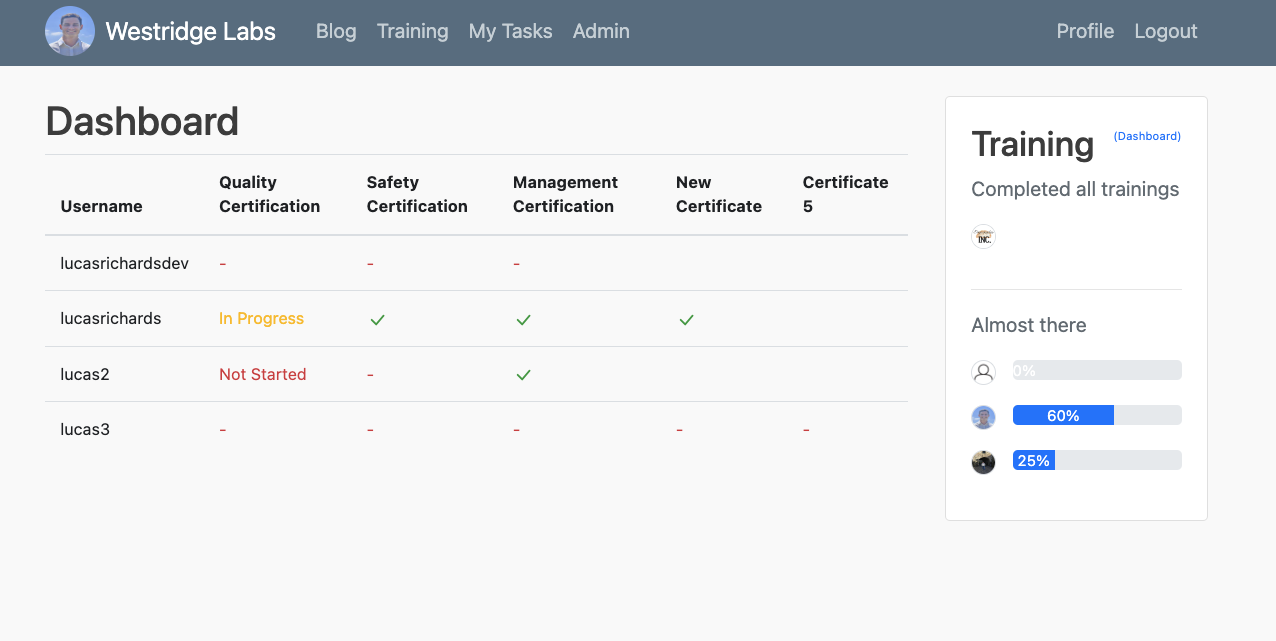
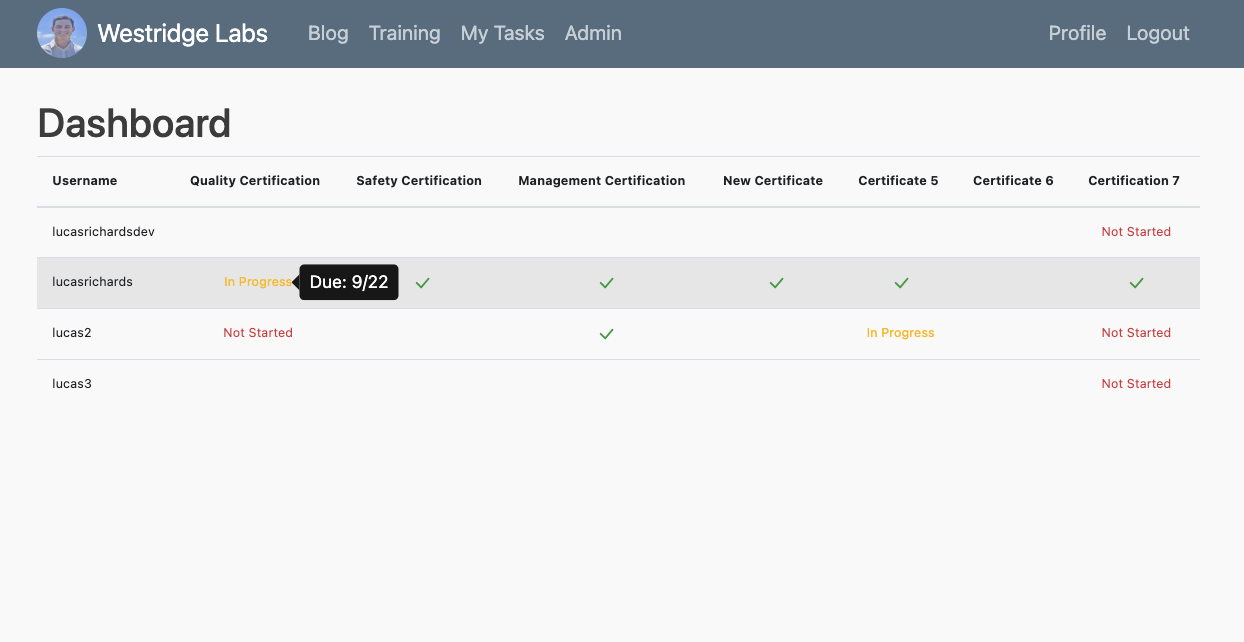
dashboard done

diff --git a/training/templates/training/dashboard.html b/training/templates/training/dashboard.html
@@ -20,18 +20,19 @@
             {% for row in data %}
                 <tr>
                     <td>{{ row.username }}</td>
-                    {% for status in row.certifications_status %}
-                        <td  title="lucas" class="text-{% if status == 'Completed' %}success{% elif status == 'In Progress' %}warning{% else %}danger{% endif %}">
+                    {% for cert in row.certifications_status %}
+                        <td  class="text-{% if cert.status == 'Completed' %}success{% elif cert.status == 'In Progress' %}warning{% else %}danger{% endif %}">
                             
                             <div class="d-flex justify-content-center align-items-center">
                             <!-- add an icon -->
-                            {% if status == 'Completed' %}
-                                <svg xmlns="http://www.w3.org/2000/svg" width="16" height="16" fill="currentColor" class="bi bi-check-lg" viewBox="0 0 16 16">
+                            {% if cert.status == 'Completed' %}
+                                <svg data-toggle="tooltip" data-placement="right" title="Complete" xmlns="http://www.w3.org/2000/svg" width="16" height="16" fill="currentColor" class="bi bi-check-lg" viewBox="0 0 16 16">
                                     <path d="M12.736 3.97a.733.733 0 0 1 1.047 0c.286.289.29.756.01 1.05L7.88 12.01a.733.733 0 0 1-1.065.02L3.217 8.384a.757.757 0 0 1 0-1.06.733.733 0 0 1 1.047 0l3.052 3.093 5.4-6.425z"/>
                                 </svg>
                             {% else %}
-                                <i class="fas fa-times-circle"></i>
-                                {{ status }}
+                                <div data-toggle="tooltip" data-placement="right" title="Due: {{ cert.due_date|date:'n/j' }}">
+                                    {{ cert.status }}
+                                </div>
                             {% endif %}
                             </div>
                         </td>
@@ -41,9 +42,7 @@
             
         </tbody>
     </table>
-    <button type="button" class="btn btn-secondary" data-toggle="tooltip" data-placement="top" title="Tooltip on top">
-        Tooltip on top
-      </button>
+    
 
 
 

diff --git a/training/views.py b/training/views.py
@@ -68,8 +68,8 @@ def dashboard(request):
         }
         for certification in certificates:
             status_obj = CertificationStatus.objects.filter(profile=profile, certification=certification).first()
-            status = status_obj.status if status_obj else '-'
-            row['certifications_status'].append(status)
+            cert = status_obj if status_obj else '-'
+            row['certifications_status'].append(cert)
         data.append(row)
     print('data', data)
 
